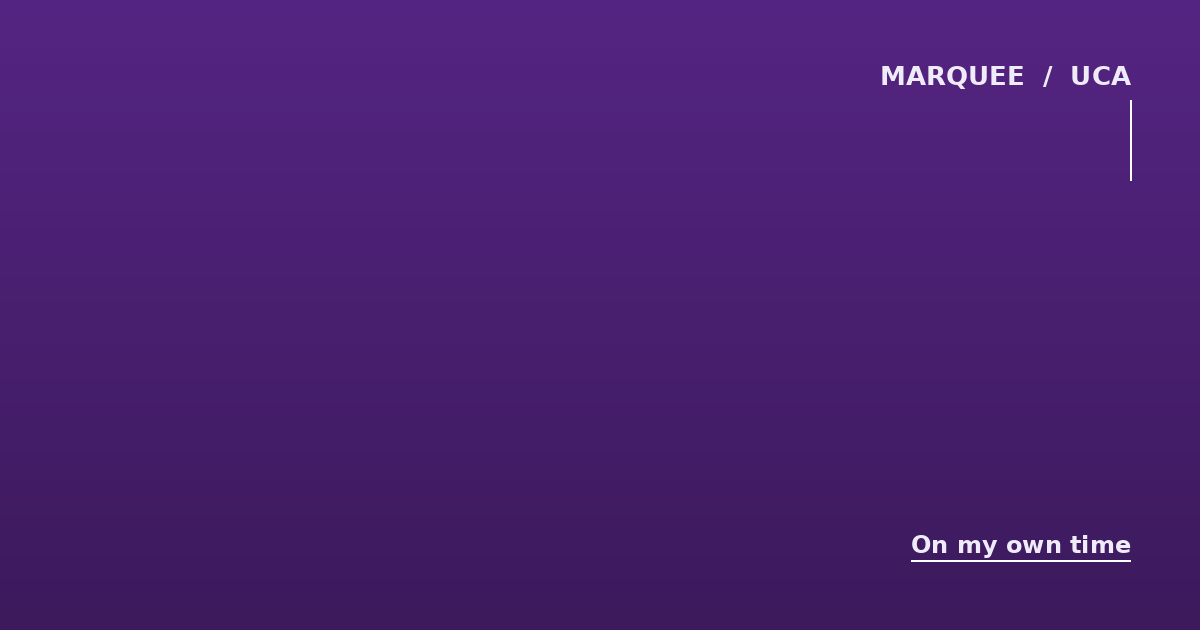
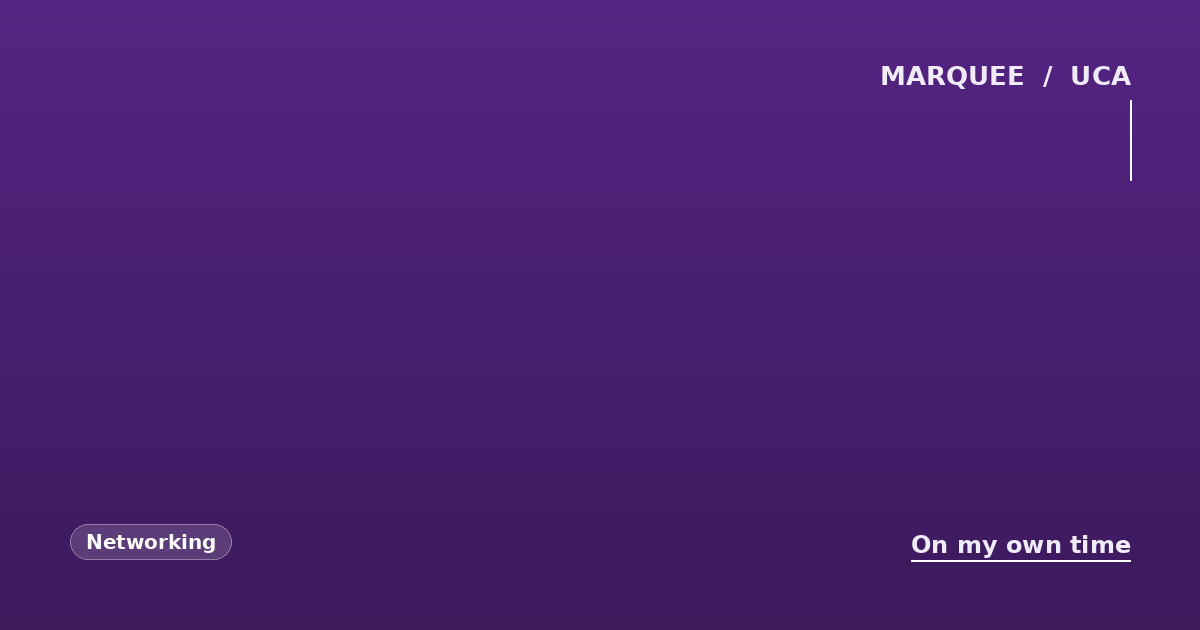
Publish: Apex

Changed region(s): [[0.0617, 0.8143, 0.2158, 0.9048]]

diff --git a/_artifacts/apex-7.md b/_artifacts/apex-7.md
@@ -1,7 +1,7 @@
 ---
 title: "Apex"
 date: 2026-04-27 14:18:08 -0500
-last_modified_at: 2026-04-28 16:06:13 -0500
+last_modified_at: 2026-04-28 16:07:16 -0500
 slug: apex-7
 permalink: /artifacts/apex-7/
 excerpt: "Apex is a website platform designed to serve student and faculty communities. The project demonstrates full-stack development capabilities and user-centered design thinking."
@@ -23,7 +23,7 @@ header:
   # teaser is the landing-page grid card image; same source as og_image.
   teaser:         /assets/thumbnails/apex-7.jpg
 tags:
-  []
+  - "Networking"
 categories:
   - "On my own time"
 course_label: "On my own time"
@@ -38,6 +38,10 @@ is_flagship:    false
 endorsement_quote: ""
 endorser_name:     ""
 ---
+
+<div class="artifact-meta">
+  <a class="skill-pill" href="{{ '/skills/#skill-networking' | relative_url }}">Networking</a>
+</div>
 
 <p class="lede">Apex is a website platform designed to serve student and faculty communities. The project demonstrates full-stack development capabilities and user-centered design thinking.</p>
 
